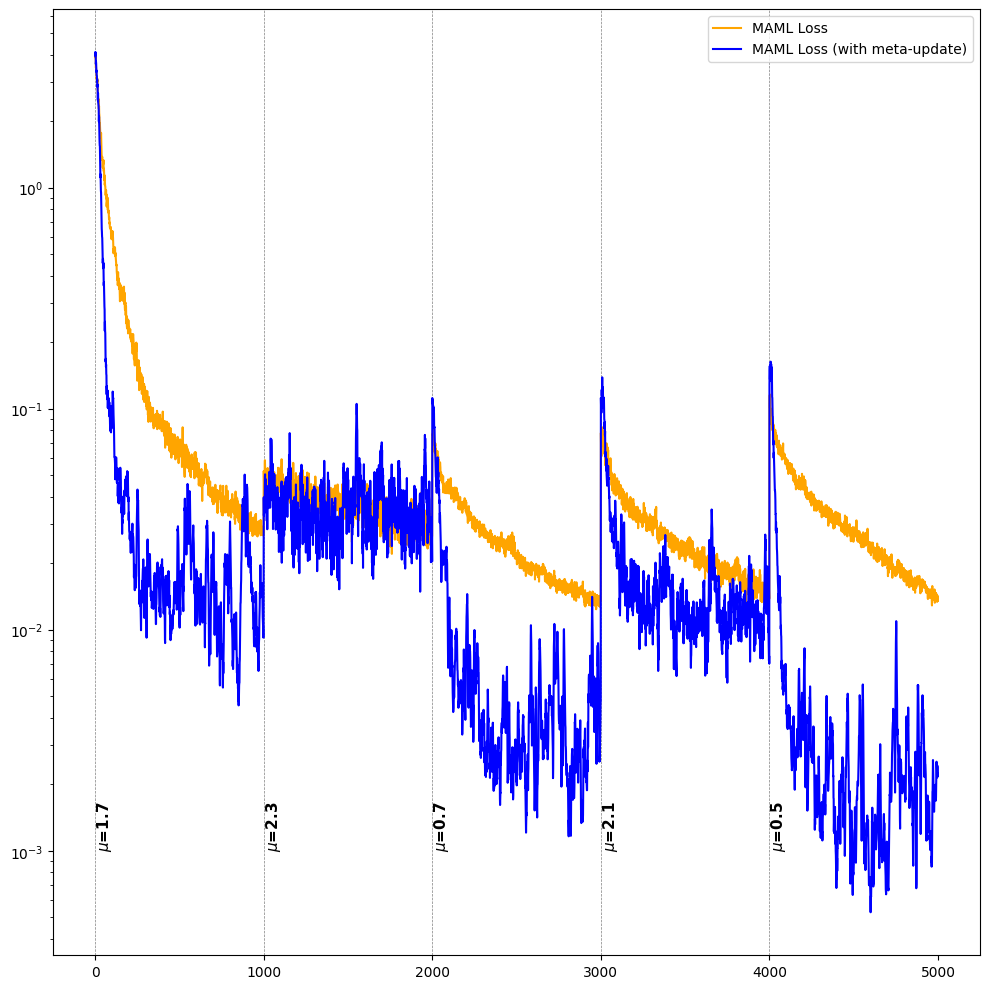
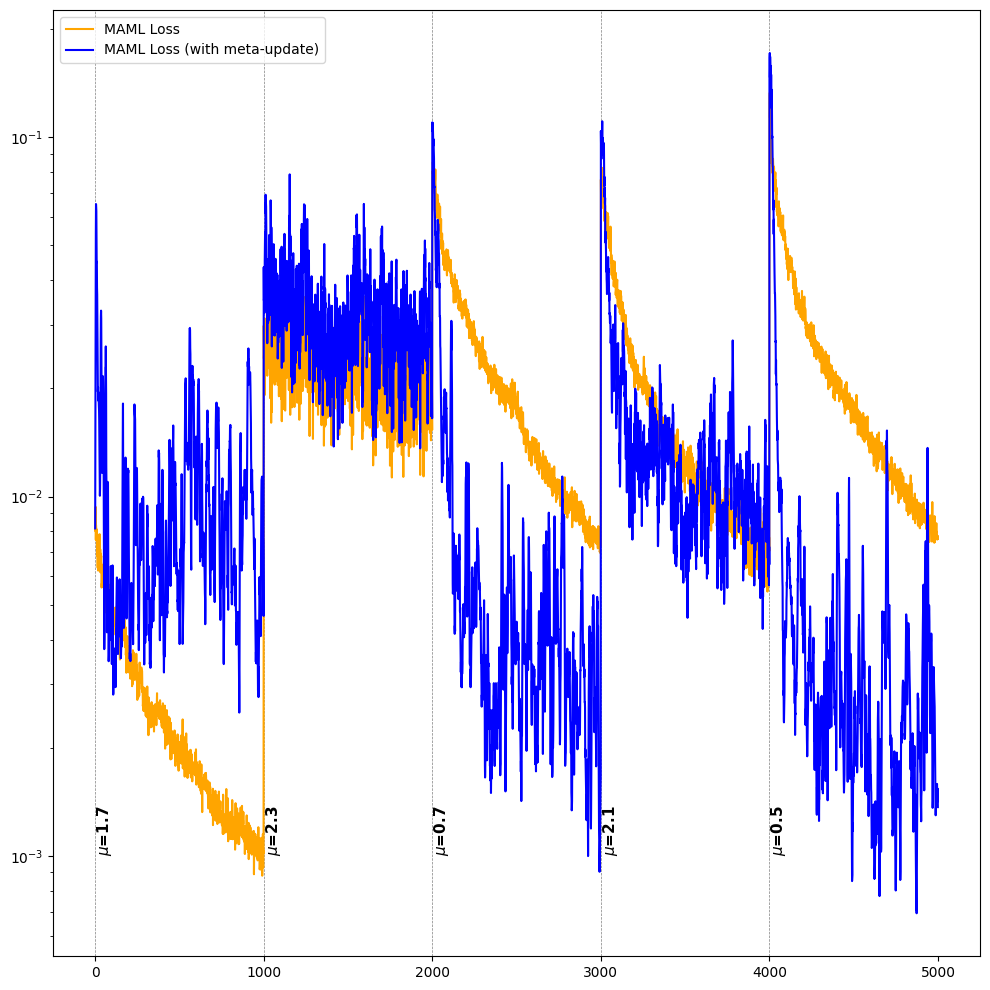
Comparisons mostly as expected, now with less bugs

diff --git a/node_example.py b/node_example.py
@@ -119,9 +119,10 @@ def quantitative_evaluation(mu_function: Callable = mu_piecewise_constant, trang
     cumulative_data = []
     # set the update MAML parameters
     lr = 1e-3
-    window = 100  # use a window of 50 steps for the windowed version of maml
+    window = 100  # use a window of 100 steps for the windowed version of maml
 
-    adapted_params = copy_model_params(model, 1)  # copy the parameters for each task in the batch, this is a placeholder for the first step
+    _adapted_params = copy_model_params(model, 1)  # copy the parameters for each task in the batch, this is a placeholder for the first step
+    _adapted_windowed_params = _adapted_params.copy()  # copy the parameters for the windowed version of maml
     with tqdm.trange(trange) as tqdm_bar:
         for step in tqdm_bar:
 
@@ -145,7 +146,7 @@ def quantitative_evaluation(mu_function: Callable = mu_piecewise_constant, trang
                 data_stream=[((y0, dt), y1)],  # single observation
                 lr=lr,
                 use_full_history=False,  # we only use the single observation
-                _params=adapted_params,  # use the current adapted parameters
+                _params=_adapted_params,  # use the current adapted parameters
             )
 
             # # Cumulative version of maml
@@ -155,7 +156,7 @@ def quantitative_evaluation(mu_function: Callable = mu_piecewise_constant, trang
             #     data_stream=cumulative_data,  # all observations so far
             #     lr=lr,
             #     use_full_history=True,  # we use all observations
-            #     _params=adapted_params,  # use the current adapted parameters
+            #     _params=_adapted_params,  # use the current adapted parameters
             # )
 
             # Windowed version of maml
@@ -166,7 +167,7 @@ def quantitative_evaluation(mu_function: Callable = mu_piecewise_constant, trang
                 data_stream=windowed_data,  # last `window` observations
                 lr=lr,
                 use_full_history=True,  # we use all observations in the window
-                _params=adapted_params,  # use the current adapted parameters
+                _params=_adapted_windowed_params,  # use the current adapted windowed parameters
             )
 
             # Generate a new batch of data for evaluation
@@ -201,6 +202,10 @@ def quantitative_evaluation(mu_function: Callable = mu_piecewise_constant, trang
                 }
             )
 
+            # set the adapted parameters for the next step
+            _adapted_params = adapted_params.copy()
+            _adapted_windowed_params = windowed_adapted_params.copy()
+
     mu_func_string = mu_function.__name__
 
     # Plot the stand alone loss
@@ -214,7 +219,7 @@ def quantitative_evaluation(mu_function: Callable = mu_piecewise_constant, trang
         ax.text(
             x,               # data x
             0.1,               # axis-fraction y = 0 (bottom of the plotting area)
-            f"$\\mu$={m:.1f}",
+            f"$\\mu$={m:.2f}",
             transform=ax.get_xaxis_transform(),  # <-- key!
             rotation=90,
             va='bottom',     # push the text upward from the axis spine
@@ -232,16 +237,17 @@ def quantitative_evaluation(mu_function: Callable = mu_piecewise_constant, trang
     plt.legend()
     plt.tight_layout()
     # plt.show()
-    fig.savefig(f"./logs/VanDerPol_{alg}/losses_{mu_func_string}.png", bbox_inches='tight')
+    fig.savefig(f"./logs/VanDerPol_{alg}/losses_{mu_func_string}_{window}.png", bbox_inches='tight')
 
     # save the losses
     losses_node = torch.tensor(losses_node, device=device)
     losses_node_cumulative = torch.tensor(losses_node_cumulative, device=device)
     torch.save({
+        "mu": mu,
         "losses_node": losses_node,
         # "losses_node_cumulative": losses_node_cumulative,
         "losses_node_window": torch.tensor(losses_node_window, device=device),
-    }, f"./logs/VanDerPol_{alg}/losses_{mu_func_string}.pth")
+    }, f"./logs/VanDerPol_{alg}/losses_{mu_func_string}_{window}.pth")
 
 
 if __name__ == "__main__":

diff --git a/mlp_example.py b/mlp_example.py
@@ -121,7 +121,8 @@ def quantitative_evaluation(mu_function: Callable = mu_piecewise_constant, trang
     lr = 1e-3
     window = 50 # use a window of 50 steps for the windowed version of maml
 
-    adapted_params = copy_model_params(model, 1)  # copy the parameters for each task in the batch, this is a placeholder for the first step
+    _adapted_params = copy_model_params(model, 1)  # copy the parameters for each task in the batch, this is a placeholder for the first step
+    _adapted_windowed_params = _adapted_params.copy()  # copy the parameters for the windowed version of maml
     with tqdm.trange(trange) as tqdm_bar:
         for step in tqdm_bar:
 
@@ -144,7 +145,7 @@ def quantitative_evaluation(mu_function: Callable = mu_piecewise_constant, trang
                 data_stream=[(y0, y1)],  # single observation
                 lr=lr,
                 use_full_history=False,  # we only use the single observation
-                _params=adapted_params,  # use the current adapted parameters
+                _params=_adapted_params,  # use the current adapted parameters
             )
 
             # # Cumulative version of maml
@@ -154,7 +155,7 @@ def quantitative_evaluation(mu_function: Callable = mu_piecewise_constant, trang
             #     data_stream=cumulative_data,  # all observations so far
             #     lr=lr,
             #     use_full_history=True,  # we use all observations
-            #     _params=adapted_params,  # use the current adapted parameters
+            #     _params=_adapted_params,  # use the current adapted parameters
             # )
 
             # Windowed version of maml
@@ -165,7 +166,7 @@ def quantitative_evaluation(mu_function: Callable = mu_piecewise_constant, trang
                 data_stream=windowed_data,  # last `window` observations
                 lr=lr,
                 use_full_history=True,  # we use all observations in the window
-                _params=adapted_params,  # use the current adapted parameters
+                _params=_adapted_windowed_params,  # use the current adapted parameters
             )
 
             # Generate a new batch of data for evaluation
@@ -200,6 +201,10 @@ def quantitative_evaluation(mu_function: Callable = mu_piecewise_constant, trang
                 }
             )
 
+            # set the adapted parameters for the next step
+            _adapted_params = adapted_params.copy()
+            _adapted_windowed_params = windowed_adapted_params.copy()
+
     mu_func_string = mu_function.__name__
 
     # Plot the loss
@@ -213,7 +218,7 @@ def quantitative_evaluation(mu_function: Callable = mu_piecewise_constant, trang
         ax.text(
             x,               # data x
             0.1,               # axis-fraction y = 0 (bottom of the plotting area)
-            f"$\\mu$={m:.1f}",
+            f"$\\mu$={m:.2f}",
             transform=ax.get_xaxis_transform(),  # <-- key!
             rotation=90,
             va='bottom',     # push the text upward from the axis spine
@@ -232,7 +237,7 @@ def quantitative_evaluation(mu_function: Callable = mu_piecewise_constant, trang
     plt.legend()
     plt.tight_layout()
     # plt.show()
-    fig.savefig(f"./logs/VanDerPol_{alg}/losses_{mu_func_string}.png", bbox_inches='tight')
+    fig.savefig(f"./logs/VanDerPol_{alg}/losses_{mu_func_string}_{window}.png", bbox_inches='tight')
 
     # save the losses
     losses_mlp = torch.tensor(losses_mlp, device=device)
@@ -241,7 +246,7 @@ def quantitative_evaluation(mu_function: Callable = mu_piecewise_constant, trang
         "losses_mlp": losses_mlp,
         # "losses_mlp_cumulative": losses_mlp_cumulative,
         "losses_mlp_window": torch.tensor(losses_mlp_window, device=device),
-    }, f"./logs/VanDerPol_{alg}/losses_{mu_func_string}.pth")
+    }, f"./logs/VanDerPol_{alg}/losses_{mu_func_string}_{window}.pth")
 
 if __name__ == "__main__":
     qualitative_evaluation()

diff --git a/plot_node_vs_fe.py b/plot_node_vs_fe.py
@@ -8,44 +8,57 @@ for test in tests:
     losses_fe = torch.load(f"./logs/VanDerPol_FE_NODE/losses_{test}.pth")
     losses_fe_rls = losses_fe["losses_fe_rls"]
     losses_fe_baseline = losses_fe["losses_fe_baseline"]
-    losses_maml = torch.load(f"./logs/VanDerPol_MAML2_NODE/losses_{test}.pth")["losses_maml"].cpu()
-    # losses_maml = torch.load(f"./logs/VanDerPol_NODE/losses_{test}.pth")["losses_maml"].cpu()
+    mu = losses_fe["mu"]
+    # losses_maml = torch.load(f"./logs/VanDerPol_MAML2_NODE/losses_{test}.pth")["losses_maml"].cpu()
+    losses_maml_50_shot = torch.load(f"./logs/VanDerPol_NODE/losses_{test}_50.pth")["losses_node_window"].cpu()
+    losses_maml_100_shot = torch.load(f"./logs/VanDerPol_NODE/losses_{test}_100.pth")["losses_node_window"].cpu()
+    losses_maml_one_shot = torch.load(f"./logs/VanDerPol_NODE/losses_{test}_50.pth")["losses_node"].cpu()
 
-    # Plot the losses
-    fig, ax = plt.subplots(1, 1, figsize=(12, 5))
-    ax.plot(losses_fe_baseline, label="Batch NODE-FE", color='C0')
-    ax.plot(losses_fe_rls, label="NODE-FE + RLS", color='C1')
-    ax.plot(losses_maml, label="NODE + MAML", color='C2')
+    fig, ax = plt.subplots(1, 1, figsize=(10, 10))
+
+    # plot mu as vertical lines for every 1000 steps
+    plotting_mu = mu[torch.arange(len(mu)) % 1000 == 0].detach().cpu().numpy().tolist()
+    for i, m in enumerate(plotting_mu):
+        x = i * 1000
+        ax.axvline(x, color='gray', linestyle='--', linewidth=0.5)
+        ax.text(
+            x,               # data x
+            0.1,               # axis-fraction y = 0 (bottom of the plotting area)
+            f"$\\mu$={m:.2f}",
+            transform=ax.get_xaxis_transform(),  # <-- key!
+            rotation=90,
+            va='bottom',     # push the text upward from the axis spine
+            ha='left',
+            fontsize=11,
+            fontweight='bold',
+        )
+
+    # Plot the losses - maml first
+    ax.plot(losses_maml_one_shot, label="NODE + MAML (1-shot)", color='C4')
+    ax.plot(losses_maml_50_shot, label="NODE + MAML (50-shot)", color='C2')
+    ax.plot(losses_maml_100_shot, label="NODE + MAML (100-shot)", color='C3')
+
+
 
     # log scale y axis
     ax.set_yscale("log")
-
     plt.legend()
     plt.tight_layout()
 
 
     # plt.show()
+    fig.savefig(f"./logs/VanDerPol_comparisons/maml_{test}.png")
+
+    ax.plot(losses_fe_baseline, label="Batch NODE-FE", color='C0')
+    ax.plot(losses_fe_rls, label="NODE-FE + RLS", color='C1')
+    plt.legend()
+    plt.tight_layout()
     fig.savefig(f"./logs/VanDerPol_comparisons/{test}.png")
+
 
     # # Plot the standalone loss
     # fig, ax = plt.subplots(1, 1, figsize=(10,10))
 
-    # # plot mu as vertical lines for every 1000 steps
-    # plotting_mu = mu[torch.arange(trange) % 1000 == 0].detach().cpu().numpy().tolist()
-    # for i, m in enumerate(plotting_mu):
-    #     x = i * 1000
-    #     ax.axvline(x, color='gray', linestyle='--', linewidth=0.5)
-    #     ax.text(
-    #         x,               # data x
-    #         0.1,               # axis-fraction y = 0 (bottom of the plotting area)
-    #         f"$\\mu$={m:.1f}",
-    #         transform=ax.get_xaxis_transform(),  # <-- key!
-    #         rotation=90,
-    #         va='bottom',     # push the text upward from the axis spine
-    #         ha='left',
-    #         fontsize=11,
-    #         fontweight='bold',
-    #     )
 
     # ax.set_yscale("log")
     # ax.minorticks_on()
@@ -56,4 +69,4 @@ for test in tests:
     # plt.legend()
     # plt.tight_layout()
     # # plt.show()
-    # fig.savefig(f"./logs/VanDerPol_{alg}/losses_{mu_func_string}.png", bbox_inches='tight')
+    # fig.savefig(f"./logs/VanDerPol_{alg}/losses_{test}.png", bbox_inches='tight')

diff --git a/util/online_adapt.py b/util/online_adapt.py
@@ -20,7 +20,7 @@ def online_adapt_maml(
     
     To continuously adapt the model, you can call this function in a loop, feeding it new data at each step and updating the model parameters.
     """
-    batch_size = 1  # We assume a batch size of 1 for online adaptation (there is one observation/task at a timestep)
+    batch_size = 1  # We assume a batch size of 1 for online adaptation (there is one observation/task at a timestep, this can be either a single datapoint or a window of datapoints).
 
     # 1) Extract and clone all parameters for adaptation
     if _params is None:
@@ -42,36 +42,32 @@ def online_adapt_maml(
             # just the single step at t
             data = data_stream[t:t+1]
 
-        # now unzip the list of tuples into two lists
+        # unzip the list of tuples into two lists
         inputs_seq, targets_seq = zip(*data)
         # inputs_seq is a tuple of input‐tensors, length = len(data)
         # targets_seq is the same for targets
 
-        # # 1) stack the targets
-        # targets = torch.stack(targets_seq, dim=1)
-
-        # 2) figure out how many "positional args" each inputs tuple has
-        # if only one step, just grab that tuple directly
-        if len(inputs_seq) == 1:
-            # inputs_seq[0] is either a Tensor or a tuple of Tensors
-            args = (inputs_seq[0],) if isinstance(inputs_seq[0], torch.Tensor) \
-                else inputs_seq[0]
-            targets = targets_seq[0]
+        # stack along the time dimension for each of the inputs and targets
+        if type(inputs_seq[0]) is not tuple:
+            args = torch.cat([inp for inp in inputs_seq], dim=1)
+            # args is now a Tensor of shape [batch, points, in_features]
         else:
-            # full‐history case: do your normal stack-along-time
-            N = len(inputs_seq[0])
+            # in the neural_ode case, each entry of inputs_seq is a tuple of Tensors, with shape ([batch, points, in_features], [1,1])
+            # we need to stack the inputs along the time dimension
             stacked_args = []
-            for i in range(N):
+            for i in range(len(inputs_seq[0])):
                 slot = [inp[i] for inp in inputs_seq]
                 # now slot is a list of Tensors of length >1
                 stacked_args.append(torch.cat(slot, dim=1))
             args = tuple(stacked_args) # [batch, points, in_features] = [1, N, in_features]
-            targets = torch.cat(targets_seq, dim=1) # dimensions [batch, points, out_features]
+        targets = torch.cat([target for target in targets_seq], dim=1)
+        # targets is now a Tensor of shape [batch, points, out_features]
+
         # compute the loss and grads for the current step
         if type(model) is NeuralODE:
             y_pred = model.forward(args, {'params': params})
         else:
-            y_pred = model.forward(args[0], params)
+            y_pred = model.forward(args, params)
         loss = loss_fn(y_pred, targets)
         losses.append(loss.item())
 
